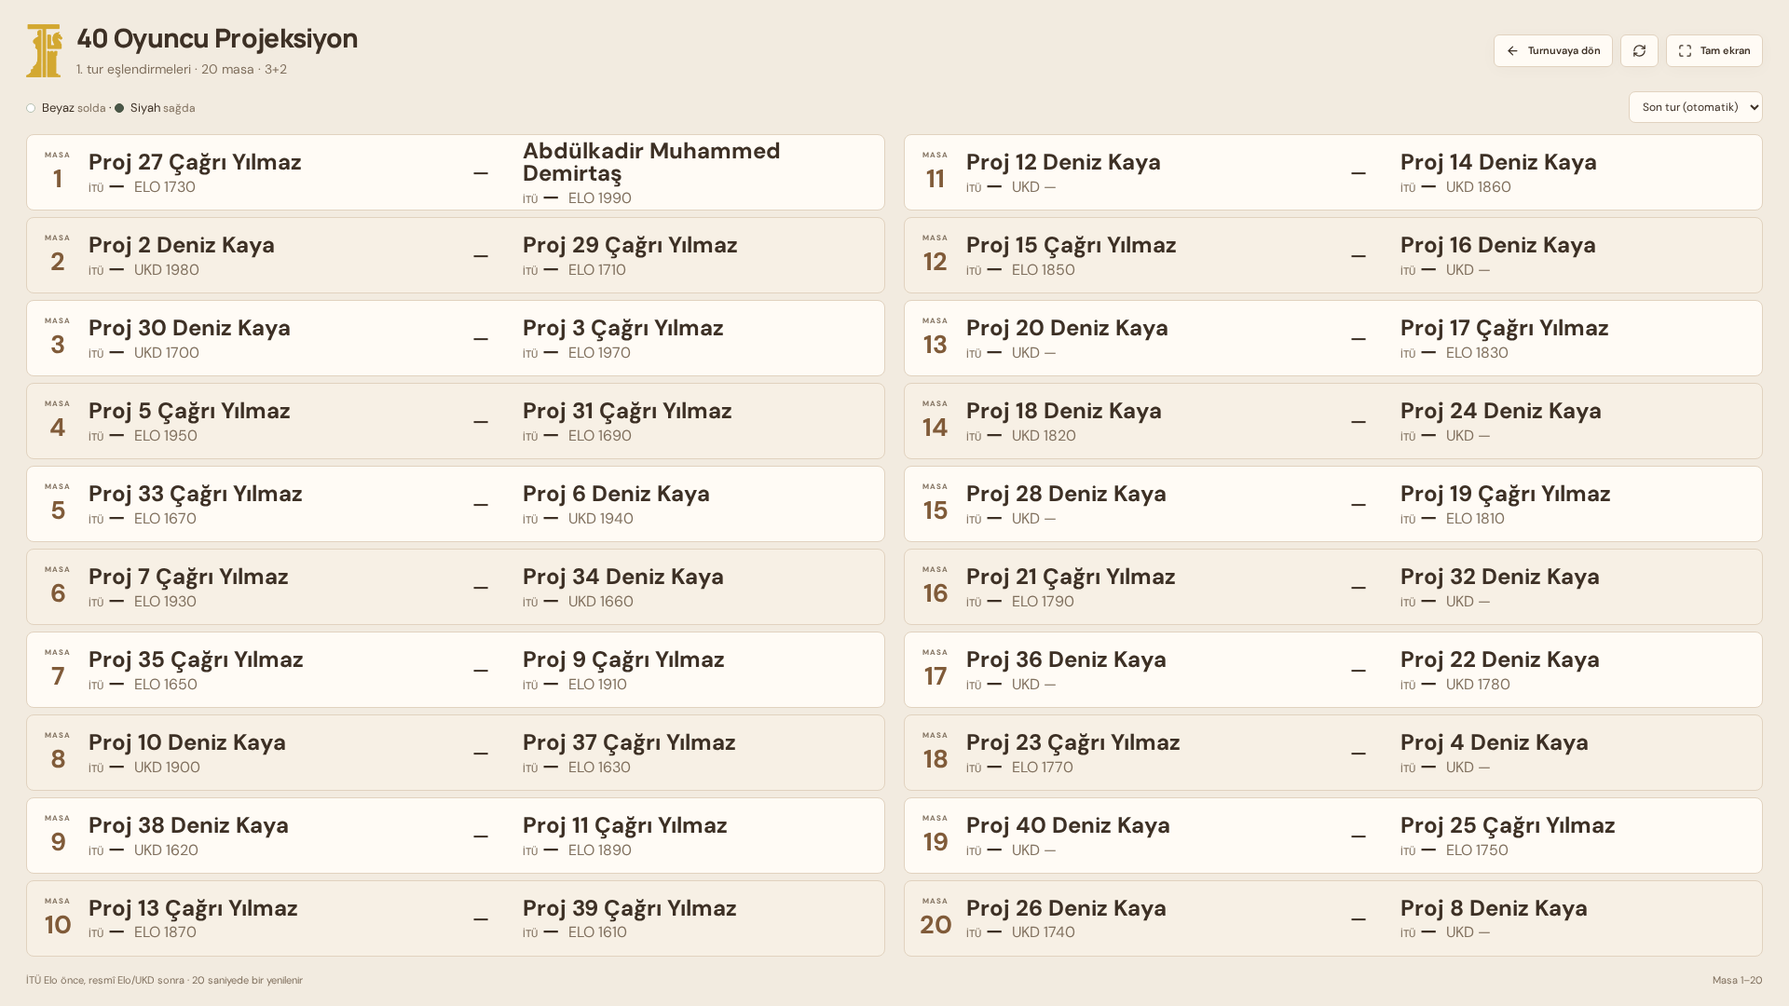
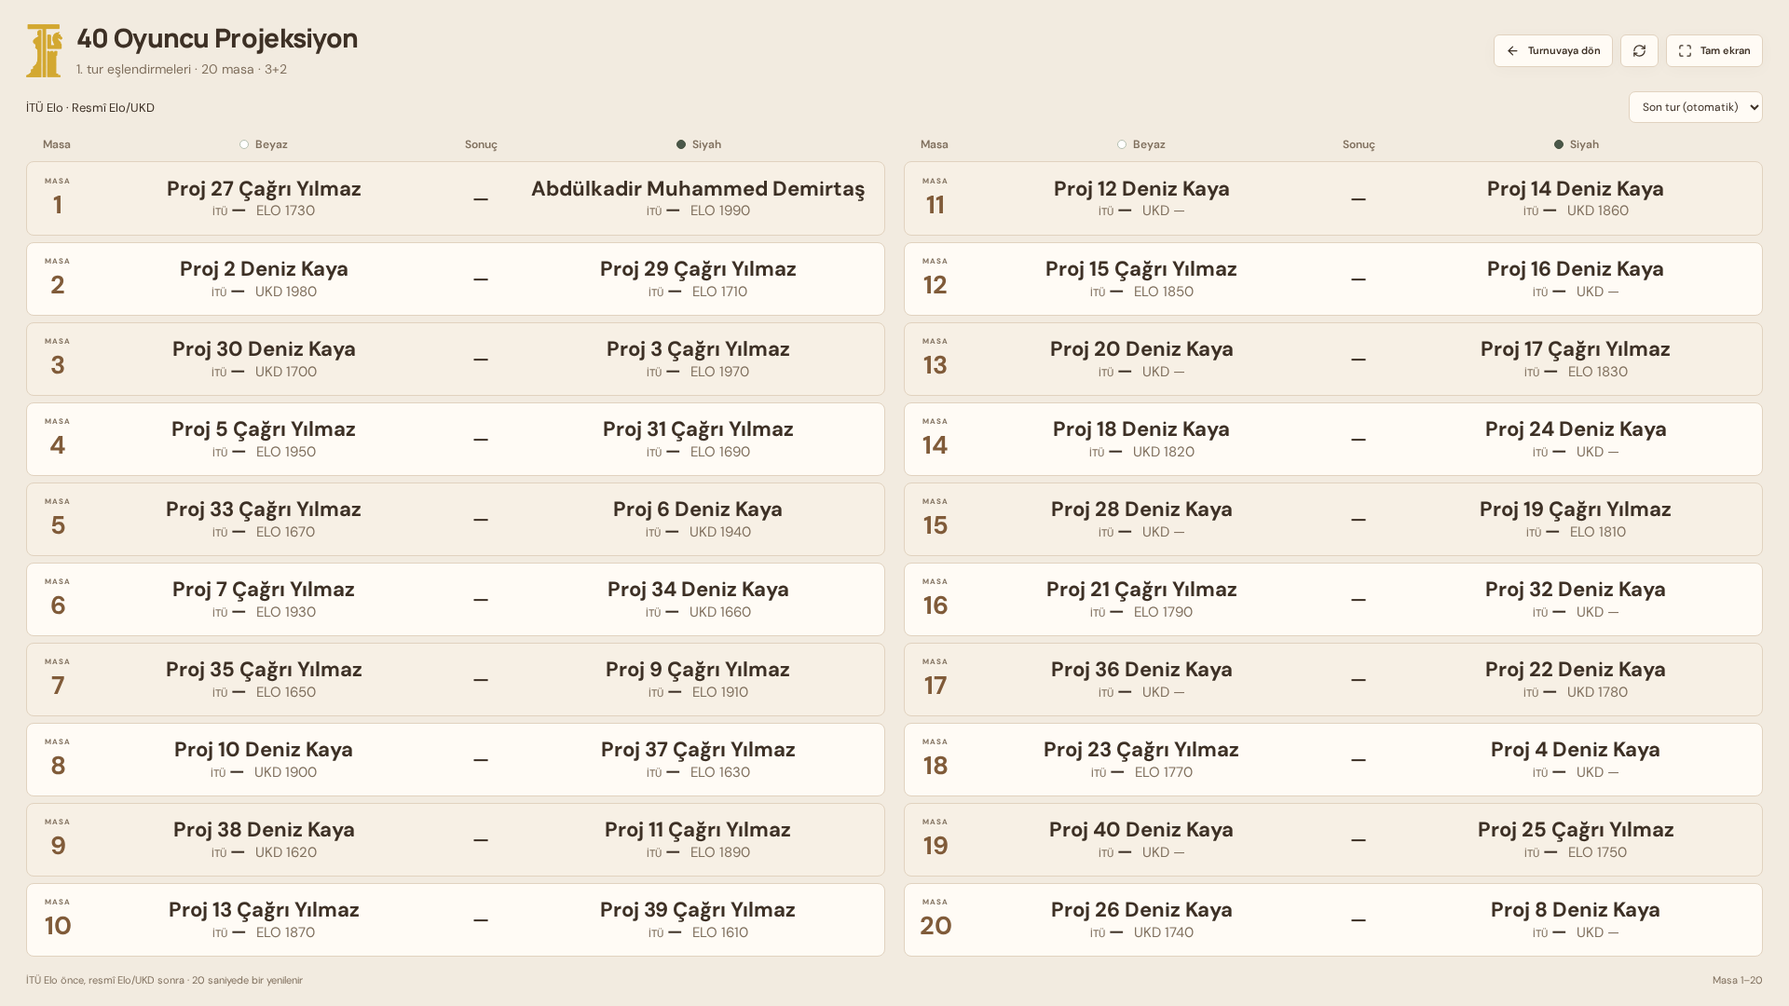
docs: add Turkish deployment walkthrough and late-entry guidance

Changed region(s): [[0.0312, 0.1222, 0.9688, 0.9472], [0.0312, 0.0917, 0.0938, 0.1222], [0.75, 0.1222, 0.7812, 0.1528]]

diff --git a/YAYINLAMA.md b/YAYINLAMA.md
@@ -1,0 +1,110 @@
+# Siteyi arkadaşlarınla paylaşmak için yayınlama
+
+Şu anda kod GitHub'da; `localhost:5173` yalnız senin bilgisayarında çalışır. Arkadaşlarına göndereceğin bağlantı, yayınlama tamamlandığında Render'ın vereceği **https://…onrender.com** adresi olacak. Bilgisayarını açık tutman gerekmeyecek.
+
+İki ücretsiz hizmet kullanıyoruz:
+
+- **Supabase:** Oyuncuların, turnuvaların ve sonuçların saklandığı veritabanı.
+- **Render:** Uygulamayı ve eşlendirme motorunu çalıştıran sunucu.
+
+Her adımda **Free / $0** seç. Ücretli yükseltme veya ödeme isteyen bir ekran çıkarsa durup ekranın başlığını paylaş. Şifreleri, API anahtarlarını ve gizli değerleri sohbetlere veya GitHub'a koyma.
+
+## 1. Önce Supabase hesabına gir
+
+1. [Supabase panelini aç](https://supabase.com/dashboard).
+2. GitHub ile giriş seçeneğini kullan; hesabın `atilyucesoy`.
+3. İlk girişte **Create organization / New organization** sorulursa adı `İTÜ Satranç`, planı **Free** seç.
+4. **New project** ile proje oluştur:
+   - Proje adı: `itu-chess`
+   - Veritabanı şifresi: yeni, güçlü bir şifre belirle ve kendin sakla. Bu, sitedeki yönetici giriş şifresi değildir.
+   - Bölge: Avrupa seçeneklerinden uygun olanı seç.
+5. Projenin oluşturulmasını bekle.
+
+**İlk aşamada burada durabilirsin.** Ekran adını veya şifre/anahtar içermeyen görüntüsünü paylaşarak sonraki düğmeye birlikte ilerleyebiliriz. Arayüzdeki başlıklar zamanla değişebilir.
+
+## 2. Veritabanını hazırla
+
+1. Supabase projesinde **SQL Editor** bölümünü aç, yeni sorgu oluştur.
+2. Repodaki [`supabase/schema.sql`](supabase/schema.sql) dosyasını açıp tamamını kopyala.
+3. SQL Editor'a yapıştır ve **Run** ile çalıştır. Bu şema boş kulüp kaydını, özel erişimi ve güvenli kayıt fonksiyonunu oluşturur.
+4. **Project Settings / API** bölümlerinden **Project URL** ve sunucuya özel **service_role** anahtarının yerini bul. Anahtar bazı ekranlarda **API Keys → Legacy API Keys** altında gösterilebilir. `anon` anahtarı bu uygulamanın sunucu erişimi için yeterli değildir.
+5. URL ve anahtarı birazdan Render'a gireceksin. Anahtarı açığa çıkarıp ekran görüntüsü gönderme.
+
+## 3. Render'a gir, repoyu bağla
+
+1. [Render panelini aç](https://dashboard.render.com/) ve GitHub ile giriş yap.
+2. **New → Web Service** seç. **Static Site** seçme: bu uygulamada çalışan bir sunucu ve eşlendirme motoru var.
+3. GitHub bağlantısını onaylayıp `atilyucesoy/itu-chess` reposunu seç.
+4. Kurulum ekranında:
+
+| Alan                         | Değer                                               |
+| ---------------------------- | --------------------------------------------------- |
+| Name                         | `itu-satranc` veya uygun boş bir ad                 |
+| Runtime / Language           | Node                                                |
+| Branch                       | `main`                                              |
+| Build Command                | `npm ci && npm run engine:install && npm run build` |
+| Start Command                | `npm start`                                         |
+| Instance / Plan              | **Free**                                            |
+| Health Check Path, sorulursa | `/api/health`                                       |
+
+Root Directory'yi boş bırak. Repoda `render.yaml` ile Blueprint alternatifi de var; yukarıdaki alanlar elle Web Service oluşturmak içindir.
+
+## 4. Gizli sunucu ayarlarını gir
+
+Render'daki **Environment / Environment Variables** alanına aşağıdakileri ekle. Sağdaki açıklamalar yerine kendi değerlerini gireceksin:
+
+| Key                         | Girilecek değer                                                         |
+| --------------------------- | ----------------------------------------------------------------------- |
+| `NODE_VERSION`              | `22.23.1`                                                               |
+| `NODE_ENV`                  | `production`                                                            |
+| `SUPABASE_URL`              | Supabase'deki Project URL                                               |
+| `SUPABASE_SERVICE_ROLE_KEY` | Supabase'deki gizli `service_role` anahtarı                             |
+| `ADMIN_USERNAME`            | `atil`                                                                  |
+| `ADMIN_NAME`                | `Atıl`                                                                  |
+| `ADMIN_PASSWORD`            | Sitenin ilk yönetici girişi için yeni, en az 12 karakterlik güçlü şifre |
+| `SESSION_SECRET`            | En az 32 karakterlik rastgele gizli değer                               |
+
+`SESSION_SECRET` üretmek için kendi terminalinde şu komutu çalıştırıp çıktıyı **yalnız Render'daki ilgili alana** yapıştırabilirsin:
+
+```bash
+node -e "console.log(require('node:crypto').randomBytes(32).toString('hex'))"
+```
+
+Bu gizli değerleri bana göndermene gerek yok. `VITE_` ile başlayan değişkenlere veya README'ye koyma. `ALLOW_LOCAL_DB` ekleme: ücretsiz Render diski kalıcı değildir. Developer mode'u internette açmıyoruz.
+
+## 5. İlk yayını aç
+
+1. **Create Web Service / Deploy** ile başlat. Build ve kurulumun bitmesini bekle.
+2. Render servis ekranının verdiği gerçek **https://…onrender.com** adresini aç.
+3. Render Environment'a `APP_ORIGIN` ekle: değeri bu adresin tam HTTPS hâli, **sonunda `/` olmadan** olsun. Kaydet ve yeniden deploy et. İlk kurulumda bu değişken yoksa uygulama isteğin kendi origin'ini kullanır.
+4. Siteye `atil` ve **Render'da belirlediğin `ADMIN_PASSWORD`** ile gir. Yerel `.env` şifreni kullanmak zorunda değilsin; bunlar ayrı kurulumlar.
+5. Bu ayarlar yalnız ilk hesabı oluşturur. Daha sonra var olan hesabın şifresini değiştirmek için site içindeki **Kulüp ayarları** kullanılır; environment değerini değiştirmek mevcut hesabı sıfırlamaz.
+
+İlk online veritabanı boş açılır. Yereldeki kayıtlar otomatik taşınmaz. Mevcut kayıtları taşımak gerekirse açık onayla ayrı bir yedek/geri yükleme adımı yapacağız; rastgele veritabanı sıfırlamayacağız.
+
+## 6. Arkadaşlarınla paylaş
+
+- İzlemeleri için Render adresini göndermen yeterli; oyuncuların hesap açması gerekmez.
+- Yönetmeleri için **Kulüp ayarları → Turnuva yöneticileri → Yeni yönetici ekle** üzerinden her kişiye ayrı hesap aç. Kendi owner şifreni gruba gönderme.
+- Public siteye yazdığın oyuncu isimleri ve ratingler herkese açık olur; kişisel telefon, öğrenci numarası vb. ekleme.
+- Yerel developer deneme alanı production'da kapalıdır. Online normal turnuvaya `abc` kayıtları girersen bunlar gerçek online veritabanına yazılır; silinebilir yerel denemeyle karıştırma.
+
+## Haftalık turnuvada ücretsiz plan sorun çıkarır mı?
+
+**Başlangıç için makul, fakat kesintisiz hizmet garantisi yok.** Güncel ücretsiz koşullar:
+
+- Render, 15 dakika hiç istek gelmezse uyur; bir sonraki açılış yaklaşık 1 dakika sürebilir. Açık turnuva/projeksiyon sayfasının normal yenilemeleri genellikle uyanık tutar; tüm sekmeler kapanırsa ya da tarayıcı istekleri durdurursa tekrar uyuyabilir.
+- Render çalışma saatleri workspace başına ayda 750 saattir. Birden fazla ücretsiz sunucun varsa bu hak ortaktır. Ayrıca veri aktarımı/build kotaları vardır; kotayı aşınca servis veya yeni buildler durabilir. Paneldeki kullanım değerlerini izle.
+- Supabase Free, bir haftalık hareketsizlikten sonra duraklatılabilir. Haftalık turnuvalar bu süreye yakın olduğu için bunu özellikle kontrol et. Proje **Paused** görünüyorsa panelden **Restore / Resume** yap.
+- Supabase Free'de 500 MB veritabanı ve 5 GB veritabanı dışa veri aktarımı dahildir; otomatik yedek yoktur. Sayfa yenilemeleri değişmeyen veriyi tekrar indirmemek için ETag kullanır ve sunucu kısa süreli ortak okuma önbelleğiyle gereksiz veritabanı trafiğini azaltır. Bunlar kotanın hiçbir zaman dolmayacağı garantisi değildir; arşiv/izleyici sayısı büyüdükçe ölçmek gerekir.
+- Render her an yeniden başlatma yapabilir. Başarıyla kaydedilmiş kayıtlar Supabase'de kalır; kısa süreli erişim kesintisi yine de olabilir. Ücretsiz Render Postgres'i **kullanmıyoruz**; onun veritabanı 30 günde sona erer.
+
+### Turnuva gecesi kontrol listesi
+
+1. **15–20 dakika önce** siteyi aç, Supabase projesinin aktif olduğunu kontrol et.
+2. Yönetici girişini ve oyuncu/turnuva listesinin yüklendiğini doğrula.
+3. Turnuva sırasında GitHub'a yeni sürüm gönderip otomatik deploy/restart tetiklememeye çalış; güncellemeleri turnuva dışına bırak.
+4. Tur sonlarında **tam yedek** al. Yedek şifre hashleri içerdiği için özel tut; GitHub'a koyma.
+5. İnternet/sunucu kesilirse sonuçları geçici olarak kâğıda yaz; bağlantı gelince sisteme gir. Uygulamanın otomatik offline kayıt/senkronizasyonu yoktur.
+
+Kaynaklar (2026-11-08 kontrolü): [Render Free](https://render.com/docs/free), [Supabase Free](https://supabase.com/pricing). Sağlayıcılar koşulları değiştirebilir; kurulum ekranındaki güncel plan ve kullanım paneli esas alınmalı.

diff --git a/README.md b/README.md
@@ -47,10 +47,16 @@ Tabs in the same browser share the workspace cookie. Use a separate browser prof
 2. Create a standard chess event. Defaults: **7 rounds**, **3+2**, and the club's active semester. Choose a registered semester and whether the event contributes championship points and/or İTÜ Elo. There is no variant/mode selection.
 3. Select existing players, or copy the most recent tournament's participant list. **Save the list** before generating the first round.
 4. Generate a round; enter wins, draws or forfeits. All results must be complete before pairing the next round.
-5. Between rounds, mark withdrawals/returns from **Oyuncular**. Withdrawn players receive explicit zero-point absences, not rating losses. Late registration after the first round is intentionally not supported in v0.1.
+5. Between rounds, mark withdrawals/returns from **Oyuncular**. Withdrawn players receive explicit zero-point absences, not rating losses. For a later arrival use **Geç katılım ekle**; select registered players or create a new one directly.
 6. After the planned final round, resolve any complete tie with a **recorded random lot**, then finalize. Finalization awards points and updates ratings once. It cannot be run twice.
 
 The total rounds can be changed **before starting**, not silently changed mid-event. First-round initial colour is randomly drawn once and stored. If the engine cannot create valid pairings, it reports failure; it never falls back to an improvised pairing algorithm. For very small fields, choose a feasible number of Swiss rounds before starting.
+
+### Late entries
+
+Organizers can admit players while an event is live, before the final round has been paired. They start at the next unpaired round; all earlier missed rounds score **zero** and are excluded from Elo. Published boards, colours, results and saved original round TRFs are unchanged. FIDE C.04.2 2.4–2.5 permits provisional pairing-number reassignment for late entries: the combined field is re-numbered using frozen strength values (İTÜ Elo first), while games keep their stable player UUIDs. Missing pre-entry rounds are exported as colourless zero-point absences and included in the supported unplayed-round tie-break handling.
+
+Creating a new player and admitting them is one atomic action. Duplicate players and admissions after the final pairing are rejected. If later rounds are explicitly undone, pending participants become eligible for the next re-pairing; this does not silently change an existing published round.
 
 ### Projecting pairings
 
@@ -60,7 +66,7 @@ Names, both ratings, table numbers and piece colours are enlarged. A normal 40-p
 
 ### Appearance and semesters
 
-- Choose **Kahverengi / Yeşil** in the header or **Kulüp ayarları → Görünüm**. The light cream/brown palette is the default; the original green palette remains available. The light/dark toggle is independent. Both preferences are stored only in the current browser.
+- Brown is the only palette. Use the header light/dark toggle or **Kulüp ayarları → Görünüm → Koyu görünüm**; that preference is saved only in the current browser. Old saved green-palette preferences are discarded. Pairing names, ratings and white/black headings are centered, with intermediate-sized type rather than the earlier oversized table text.
 - The owner manages **Kulüp ayarları → Dönemler**. Create a period, optionally activate it immediately, or select an existing period and use **Aktif dönemi kaydet**.
 - The header badge always shows the **active semester**. New events default to it. The semester standings page can independently display an older semester without changing the club's active one.
 - Semester rollover is deliberate, not a calendar-triggered reset. Old events and semester points are preserved, and İTÜ Elo carries forward. Existing event labels are imported unchanged into the registry when upgrading; the latest legacy event's period is the initial active choice. A new empty installation receives a one-time date-based suggestion, which the owner can change.
@@ -101,6 +107,8 @@ Current-round results are editable. To change an earlier result, explicitly undo
 
 ## Free internet hosting
 
+**Türkçe, ekran ekran kurulum ve turnuva gecesi kontrol listesi: [YAYINLAMA.md](YAYINLAMA.md).** İstersen yalnız ilk Supabase giriş adımını yapıp kalanını birlikte ilerleyebilirsin; hiçbir gizli anahtarı sohbete göndermek gerekmez.
+
 Nothing is deployed automatically. You need a free GitHub account, Render account and Supabase project. Organizer accounts inside the website do **not** require hosting-provider accounts.
 
 1. Create a **Supabase Free** project. Run **`supabase/schema.sql`** in its SQL editor. Tables and RPC are private to the server's service-role key; anonymous/authenticated browser clients cannot read raw state or password hashes.
@@ -127,6 +135,7 @@ Sources: [Render Free](https://render.com/docs/free), [Supabase pricing](https:/
 - The owner backup includes password hashes and must be kept private. Download after events. See `npm run backup:restore -- <file> --confirm-replace` for explicit operator recovery; stop the app first. Never commit backups.
 - Audit retains the latest 2,000 action summaries (who/when/type), not a forensic history of every before/after value. Tournament snapshots and rating corrections retain their domain-specific history.
 - Data storage uses a single versioned JSON document, with atomic compare-and-swap in SQLite or a private Supabase RPC. Suitable for this small club, not intended as a large multi-tenant platform. Keep exports as independent backups.
+- A five-second, copy-isolated primary-store read cache coalesces spectator reads and is invalidated by successful CAS writes. Conditional polling uses ETags over the complete permission-filtered response, avoiding unchanged payload downloads without reusing private/sandbox representations across auth boundaries. The source CAS remains authoritative; caching does not turn stale writes into successful ones or bypass access checks.
 
 ## Verification
 
@@ -137,7 +146,7 @@ npx playwright install chromium
 npm run test:e2e        # isolated temporary database, never real club data
 ```
 
-Tests include full seven-round even/odd tournaments, no repeated played opponents, colours, byes, forfeits, withdrawal/return, seeding priority, first-rated and unrated initialization, policy replay, finalization/reopening, tie resolution, semester exclusions, private data, permissions and edit conflicts. Developer-mode tests cover owner-only access, production gating, memory disposal, reset races, expired-session handling and unchanged real club data. Further tests cover safe semester migration/rollover, old backup compatibility, independent palette/dark-mode persistence and a 40-player projection at 1080p with live round updates, native fullscreen and smaller-screen pagination. GitHub Actions runs the unit/integration tests and browser tests on pushes to `main` and pull requests.
+Tests include full seven-round even/odd tournaments, no repeated played opponents, colours, byes, forfeits, withdrawal/return, seeding priority, first-rated and unrated initialization, policy replay, finalization/reopening, tie resolution, semester exclusions, private data, permissions and edit conflicts. Developer-mode tests cover owner-only access, production gating, memory disposal, reset races, expired-session handling and unchanged real club data. Further tests cover late-entry admission and missed rounds, published-round integrity, safe semester migration/rollover, old backup compatibility, brown-only dark-mode persistence, a 40-player projection at 1080p, live round updates, native fullscreen, smaller-screen pagination, cache invalidation and authentication-aware conditional polling. GitHub Actions runs the unit/integration tests and browser tests on pushes to `main` and pull requests.
 
 ## Pairing rules and licensing
 
@@ -147,4 +156,4 @@ bbpPairings is downloaded from the pinned v6.0.0 release with SHA-256 verificati
 - [FIDE tie-breaks, March 2026](https://handbook.fide.com/chapter/TieBreakRegulations032026)
 - [bbpPairings v6.0.0](https://github.com/BieremaBoyzProgramming/bbpPairings/releases/tag/v6.0.0)
 
-Interface inspiration: restrained Lichess-style usability, with original club styling. No Lichess branding or assets. Google Fonts are optional; local system fonts remain usable when unavailable. `src/style.css` contains the original green layout; `src/enhancements.css` adds reversible palettes, larger pairings and the projection layout.
+Interface inspiration: restrained Lichess-style usability, with original club styling. No Lichess branding or assets. Google Fonts are optional; local system fonts remain usable when unavailable. `src/style.css` contains the base layout; `src/enhancements.css` supplies the fixed brown theme, centered pairing typography and projection layout.

diff --git a/docs/architecture.md b/docs/architecture.md
@@ -53,7 +53,7 @@ Semester labels are centrally registered, with an explicit owner-controlled acti
 
 ## Presentation and projection
 
-The browser stores palette (brown/green) separately from light/dark mode. These preferences are local presentation state, not club-wide settings.
+Brown is the only palette. The browser stores the light/dark preference locally; it is not a club-wide setting. Pairing typography is centered, with moderately reduced sizes relative to the earlier projection-focused large table.
 
 A separate read-only hash route renders projected pairings without navigation or editing controls. It displays the same frozen entry ratings and the same round data as the tournament desk. Responsive capacity and pagination avoid hiding later boards when screen height or long names reduce available room. A standard 40-player field is browser-tested at 1920×1080 with all 20 boards visible. Native fullscreen is optional; the layout also fills the page without it. The default round selector follows the latest round as the shared 20-second polling refreshes data, while explicitly selected historical rounds remain fixed.
 
@@ -62,6 +62,10 @@ A separate read-only hash route renders projected pairings without navigation or
 The persistent store is one versioned JSON document. SQLite performs an atomic `UPDATE ... WHERE revision = ?`; Supabase uses an equivalent private Postgres RPC. Browser writes include the revision they were based on. A conflicting write is rejected, not silently merged or overwritten.
 
 This is a deliberate small-club trade-off: keeping event finalization, rating replay, points and audit metadata in one atomic document reduces partial-update cases. It also means reads load the whole document, and unrelated edits can conflict. A larger deployment would need normalized tables, finer-grained concurrency controls and migrations.
+
+The primary store now coalesces reads for up to five seconds, returning independent copies to each request. Successful writes immediately invalidate it. A read begun before invalidation cannot repopulate the newer cache generation. The underlying store's CAS is still used for all mutations. Conditional browser polling hashes the complete authorized response into an ETag; unchanged representations return 304 without a body. This reduces repeated database reads and network payloads, not the need to monitor provider quotas. Sandbox stores are not shared through this cache.
+
+Late entrants have an explicit first eligible round. Their missing pre-entry rounds are interpreted as colourless zero-point absences without inserting games into the original published round objects. Tournament pairing numbers are provisional and can be re-assigned on admission using frozen seed strengths, while stable player UUIDs preserve every recorded matchup. Player creation plus admission is a single revision-checked transaction; duplicates and arrivals after the final pairing fail without orphan player creation.
 
 Finalization cannot be repeated. Corrections to earlier rounds require explicitly undoing subsequent rounds; reopening older rated events is restricted when later rated events remain finalized. These constraints favor reproducible history over unrestricted editing.
 
@@ -79,4 +83,4 @@ Reset, exit, logout, expiration and server restart remove test state. Sandbox ac
 - Playwright exercises desktop/mobile tournament management, organizer permissions, edit conflicts and sandbox isolation.
 - GitHub Actions runs the test suite and production build on pushes and pull requests.
 - Hosted Supabase connectivity still requires deployment-time verification with the project owner's credentials; local tests do not imply that a remote deployment has been tested.
-- There is no live public deployment yet. Late entries after round one and changing the round count mid-event are intentionally outside the current release.
+- There is no live public deployment yet. Late entries are supported; changing the round count mid-event remains intentionally outside the current release. The Turkish deployment walkthrough is in `YAYINLAMA.md`.
